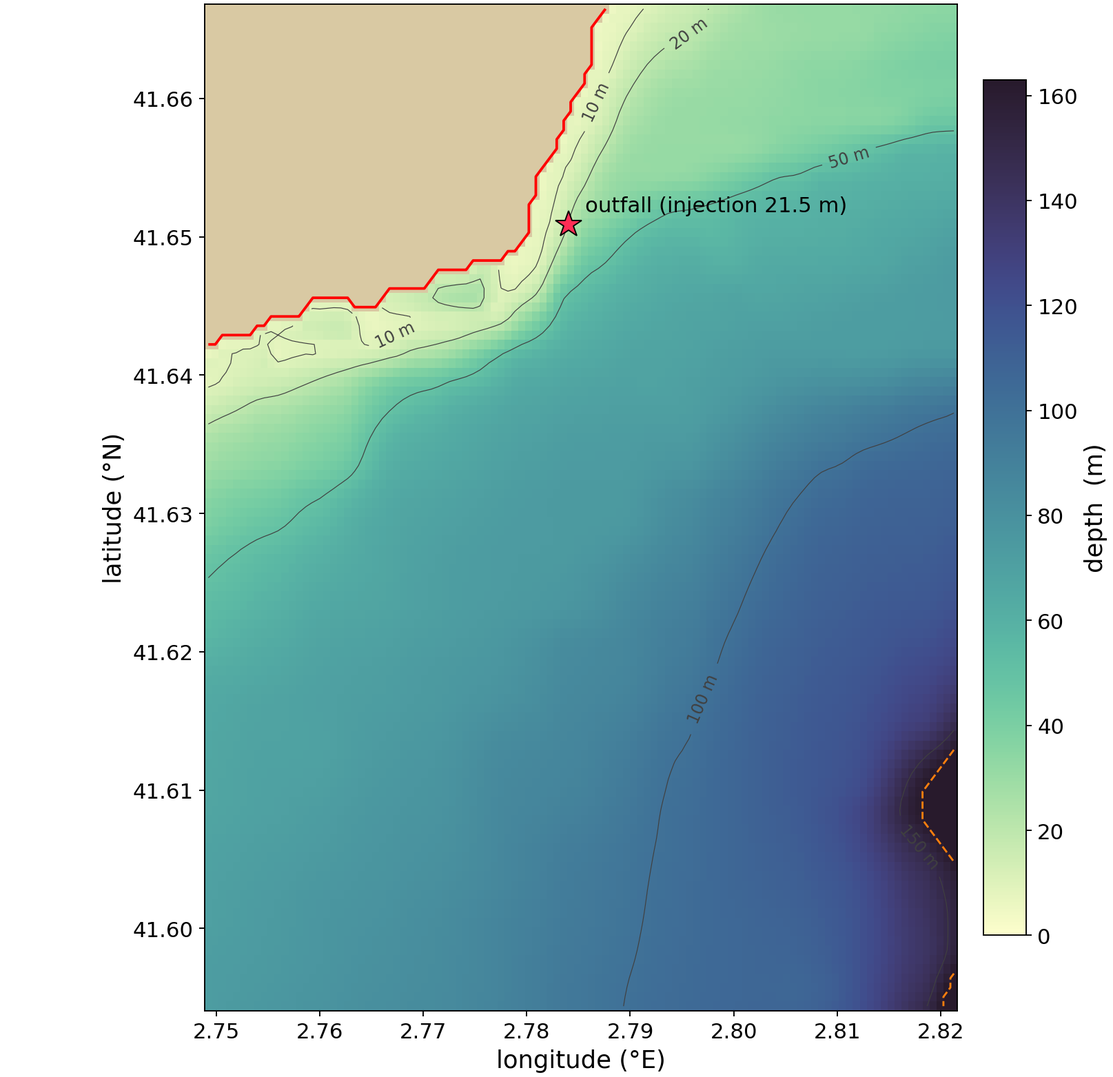
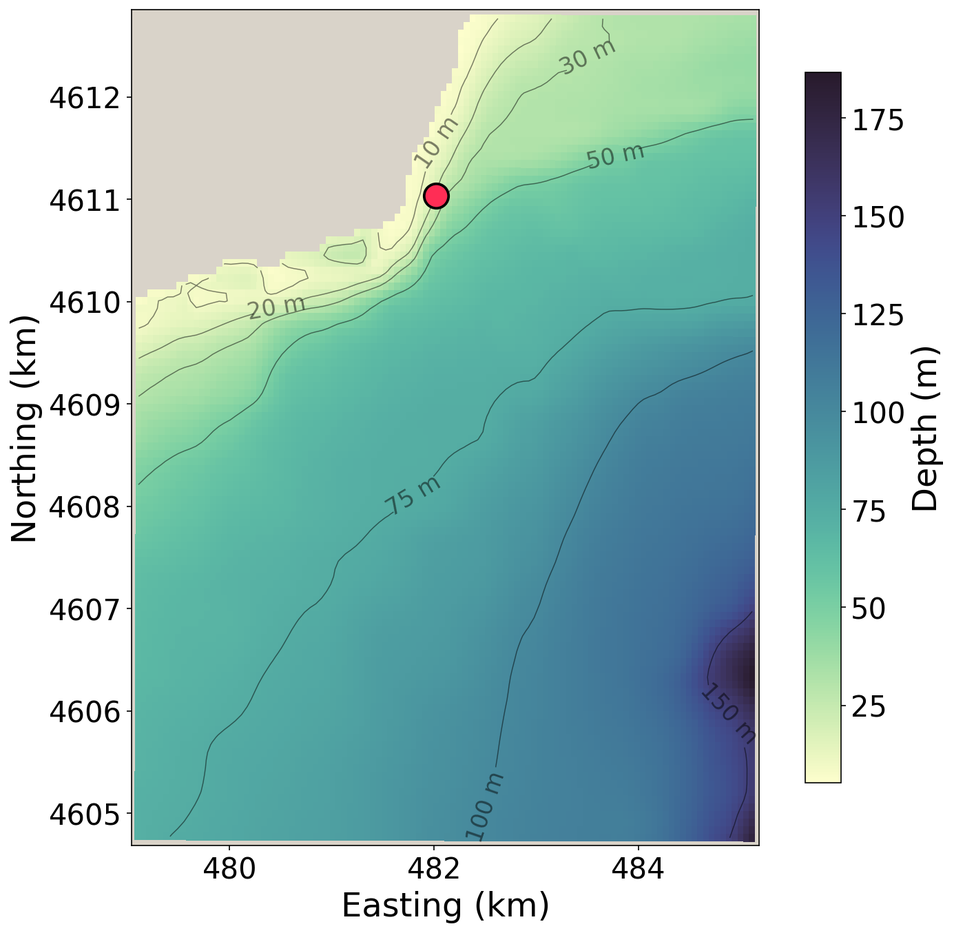
Stats fixes; bathymetry map in projected km axes

diff --git a/index.html b/index.html
@@ -46,7 +46,7 @@ In April it drains down the slope to 90-140 m and dilutes quickly; in July it st
 20 and 30 m close to the coast, the least dispersive case. The anomaly descends further in April than
 in July because in July a thermocline slows the descent of the brine plume and confines it to the
 upper layer.</p></div></div>
-<section><h2>PART 1 — Idealised slope model</h2><p class="desc lead">A straight shelf slope with a uniform wind, which isolates the effect of the wind on the plume from the complexity of the real bathymetry. The domain is 5.99 km across the shelf by 20.04 km along the coast (37 x 50 m cells, 75 vertical levels): the seabed falls from the coast to 80 m at 3 km offshore and is then flat out to the open boundary. Two wind regimes are compared, the most frequent one and a 95th-percentile event, and both are run with exactly the same open-boundary configuration and the same 15-day discharge, so the only difference between the two experiments is the wind. All slope videos share ONE colour scale, so what changes between the regimes is the plume, not the scale. The result is not what one might expect: the peak salinity excess falls only 16 % when the wind is five times stronger (1.54 to 1.29 psu), and in both regimes that peak sits in the discharge cell itself and is reached within the first hour, then holds steady for the whole fortnight. What the wind changes is the reach: the volume of water carrying a detectable excess is about six times smaller under the strong wind, and it extends 4.5 km along the coast instead of filling the full 20 km of the domain.</p><h3 class="sub">The background state — control runs (no discharge)</h3><p class="desc">The two control simulations WITHOUT the brine: temperature, salinity and the two current components on the vertical section at the outfall row, hourly over the same 3-day study window as the anomaly videos below (the full 15-day versions live in the archive). The domain is along-shore uniform, so this one section is representative of the whole shelf; the extreme control descends from its own 125-day spin-up under the same open boundary as the modal pair. Each variable keeps ONE colour scale across the two regimes, so what changes between the two columns is the wind’s imprint on the background, not the scale — the extreme background is fully mixed (14.0 °C top to bottom) and almost steady, while the modal background keeps a weak stratification and visibly stronger transient currents. Every anomaly video below is the difference between a twin of one of these runs (plus the discharge) and the run itself. The star marks where the diffuser sits in the brine runs.</p><div class="grid"><div class="card"><video controls preload="none" poster="posters/slope_control_T_xz_j200_modal.jpg"><source src="media/slope_control_T_xz_j200_modal.mp4" type="video/mp4"></video><h3>Temperature — modal wind (1 m s-1)</h3><p>cmocean thermal</p></div><div class="card"><video controls preload="none" poster="posters/slope_control_T_xz_j200_extreme.jpg"><source src="media/slope_control_T_xz_j200_extreme.mp4" type="video/mp4"></video><h3>Temperature — extreme wind (4.8 m s-1)</h3><p>cmocean thermal</p></div><div class="card"><video controls preload="none" poster="posters/slope_control_S_xz_j200_modal.jpg"><source src="media/slope_control_S_xz_j200_modal.mp4" type="video/mp4"></video><h3>Salinity — modal wind (1 m s-1)</h3><p>cmocean haline</p></div><div class="card"><video controls preload="none" poster="posters/slope_control_S_xz_j200_extreme.jpg"><source src="media/slope_control_S_xz_j200_extreme.mp4" type="video/mp4"></video><h3>Salinity — extreme wind (4.8 m s-1)</h3><p>cmocean haline</p></div><div class="card"><video controls preload="none" poster="posters/slope_control_U_xz_j200_modal.jpg"><source src="media/slope_control_U_xz_j200_modal.mp4" type="video/mp4"></video><h3>Cross-shore current — modal wind (1 m s-1)</h3><p>diverging scale, + = offshore</p></div><div class="card"><video controls preload="none" poster="posters/slope_control_U_xz_j200_extreme.jpg"><source src="media/slope_control_U_xz_j200_extreme.mp4" type="video/mp4"></video><h3>Cross-shore current — extreme wind (4.8 m s-1)</h3><p>diverging scale, + = offshore</p></div><div class="card"><video controls preload="none" poster="posters/slope_control_V_xz_j200_modal.jpg"><source src="media/slope_control_V_xz_j200_modal.mp4" type="video/mp4"></video><h3>Along-shore current — modal wind (1 m s-1)</h3><p>diverging scale, + = north</p></div><div class="card"><video controls preload="none" poster="posters/slope_control_V_xz_j200_extreme.jpg"><source src="media/slope_control_V_xz_j200_extreme.mp4" type="video/mp4"></video><h3>Along-shore current — extreme wind (4.8 m s-1)</h3><p>diverging scale, + = north</p></div></div><h3 class="sub">The plume in 3D — two views of the whole domain</h3><p class="desc">The salinity-excess surfaces over the seabed, across the entire 5.99 x 20.04 km domain: the shelf slope down to 80 m at 3 km from the coast, and the flat platform beyond it. Six nested surfaces from the measured noise floor (0.0092 psu) to 1.46 psu — everything drawn is real brine, and the descending plume can be followed all the way down the slope. The 2D sections below keep the report figures&#x27; finer 0.0003 psu minimum contour. The axes are labelled in km but are deliberately not to scale — the vertical is exaggerated so the plume is visible at all. Star = diffuser, red = shoreline.</p><div class="grid"><div class="card"><video controls preload="none" poster="posters/slope_plume3D_modal.jpg"><source src="media/slope_plume3D_modal.mp4" type="video/mp4"></video><h3>front view — modal wind (1 m s-1)</h3><p>the whole 6 x 20 km domain, shelf slope and outer platform</p></div><div class="card"><video controls preload="none" poster="posters/slope_plume3D_modal_rot90cw.jpg"><source src="media/slope_plume3D_modal_rot90cw.mp4" type="video/mp4"></video><h3>turned 90 degrees — modal wind (1 m s-1)</h3><p>the same scene from the other side, coast on the right</p></div><div class="card"><video controls preload="none" poster="posters/slope_plume3D_extreme.jpg"><source src="media/slope_plume3D_extreme.mp4" type="video/mp4"></video><h3>front view — extreme wind (4.8 m s-1)</h3><p>the whole 6 x 20 km domain, shelf slope and outer platform</p></div><div class="card"><video controls preload="none" poster="posters/slope_plume3D_extreme_rot90cw.jpg"><source src="media/slope_plume3D_extreme_rot90cw.mp4" type="video/mp4"></video><h3>turned 90 degrees — extreme wind (4.8 m s-1)</h3><p>the same scene from the other side, coast on the right</p></div></div><h3 class="sub">Sections and plan views (report style)</h3><p class="desc">The same slices used in the written report, animated: filled contour bands, ΔS below 0.0003 psu left white, grey seabed, and the colour scale shared with the report figures (0 to 1.54 psu).</p><div class="grid"><div class="card"><video controls preload="none" poster="posters/slope_report_xz_j200_modal.jpg"><source src="media/slope_report_xz_j200_modal.mp4" type="video/mp4"></video><h3>Vertical section at the diffuser — modal wind (1 m s-1)</h3><p>the row through the outfall</p></div><div class="card"><video controls preload="none" poster="posters/slope_report_xz_j100_modal.jpg"><source src="media/slope_report_xz_j100_modal.mp4" type="video/mp4"></video><h3>Vertical section 5 km along-shore — modal wind (1 m s-1)</h3><p>downstream of the diffuser</p></div><div class="card"><video controls preload="none" poster="posters/slope_report_xy_k25_modal.jpg"><source src="media/slope_report_xy_k25_modal.mp4" type="video/mp4"></video><h3>Plan view at 43 m — modal wind (1 m s-1)</h3><p>the depth the descending plume crosses</p></div><div class="card"><video controls preload="none" poster="posters/slope_report_xy_k16_modal.jpg"><source src="media/slope_report_xy_k16_modal.mp4" type="video/mp4"></video><h3>Plan view at 30 m — modal wind (1 m s-1)</h3><p>just below the injection level</p></div><div class="card"><video controls preload="none" poster="posters/slope_report_xz_j200_extreme.jpg"><source src="media/slope_report_xz_j200_extreme.mp4" type="video/mp4"></video><h3>Vertical section at the diffuser — extreme wind (4.8 m s-1)</h3><p>the row through the outfall</p></div><div class="card"><video controls preload="none" poster="posters/slope_report_xz_j100_extreme.jpg"><source src="media/slope_report_xz_j100_extreme.mp4" type="video/mp4"></video><h3>Vertical section 5 km along-shore — extreme wind (4.8 m s-1)</h3><p>downstream of the diffuser</p></div><div class="card"><video controls preload="none" poster="posters/slope_report_xy_k25_extreme.jpg"><source src="media/slope_report_xy_k25_extreme.mp4" type="video/mp4"></video><h3>Plan view at 43 m — extreme wind (4.8 m s-1)</h3><p>the depth the descending plume crosses</p></div><div class="card"><video controls preload="none" poster="posters/slope_report_xy_k16_extreme.jpg"><source src="media/slope_report_xy_k16_extreme.mp4" type="video/mp4"></video><h3>Plan view at 30 m — extreme wind (4.8 m s-1)</h3><p>just below the injection level</p></div></div></section><section><h2>PART 2 — Realistic nested model of the outfall</h2><p class="desc lead">The real bathymetry of the Tordera outfall area at 56 x 75 m resolution and 107 vertical levels, with boundary currents from the regional CATSEA model and hourly ERA5 wind. Four two-week windows of 2022 sample a mixed spring column and a stratified summer one. All four months share ONE colour scale, so a surface that shrinks between months is a real change in the plume.</p><h3 class="sub">The receiving waters — control runs (no discharge)</h3><p class="desc">The four simulated windows WITHOUT the outfall: temperature, salinity and current speed, hourly, as depth panels every 15 m. This is the context the brine falls into — in April the column is mixed top to bottom; in July a warm surface layer sits on a sharp thermocline, which is what later traps the plume near the surface. Every anomaly video below is the difference between a twin of one of these runs (plus the discharge) and the run itself.</p><div class="grid"><div class="card"><video controls preload="none" poster="posters/Apr01-15_TORDERA98C_control_T_every15m.jpg"><source src="media/Apr01-15_TORDERA98C_control_T_every15m.mp4" type="video/mp4"></video><h3>Temperature — 1-15 April 2022</h3><p>cmocean thermal, depth panels every 15 m</p></div><div class="card"><video controls preload="none" poster="posters/Apr16-30_TORDERA98D_control_T_every15m.jpg"><source src="media/Apr16-30_TORDERA98D_control_T_every15m.mp4" type="video/mp4"></video><h3>Temperature — 16-30 April 2022</h3><p>cmocean thermal, depth panels every 15 m</p></div><div class="card"><video controls preload="none" poster="posters/Jul01-15_TORDERA98E1_control_T_every15m.jpg"><source src="media/Jul01-15_TORDERA98E1_control_T_every15m.mp4" type="video/mp4"></video><h3>Temperature — 1-15 July 2022</h3><p>cmocean thermal, depth panels every 15 m</p></div><div class="card"><video controls preload="none" poster="posters/Jul16-30_TORDERA98E2_control_T_every15m.jpg"><source src="media/Jul16-30_TORDERA98E2_control_T_every15m.mp4" type="video/mp4"></video><h3>Temperature — 16-30 July 2022</h3><p>cmocean thermal, depth panels every 15 m</p></div><div class="card"><video controls preload="none" poster="posters/Apr01-15_TORDERA98C_control_S_every15m.jpg"><source src="media/Apr01-15_TORDERA98C_control_S_every15m.mp4" type="video/mp4"></video><h3>Salinity — 1-15 April 2022</h3><p>cmocean haline, depth panels every 15 m</p></div><div class="card"><video controls preload="none" poster="posters/Apr16-30_TORDERA98D_control_S_every15m.jpg"><source src="media/Apr16-30_TORDERA98D_control_S_every15m.mp4" type="video/mp4"></video><h3>Salinity — 16-30 April 2022</h3><p>cmocean haline, depth panels every 15 m</p></div><div class="card"><video controls preload="none" poster="posters/Jul01-15_TORDERA98E1_control_S_every15m.jpg"><source src="media/Jul01-15_TORDERA98E1_control_S_every15m.mp4" type="video/mp4"></video><h3>Salinity — 1-15 July 2022</h3><p>cmocean haline, depth panels every 15 m</p></div><div class="card"><video controls preload="none" poster="posters/Jul16-30_TORDERA98E2_control_S_every15m.jpg"><source src="media/Jul16-30_TORDERA98E2_control_S_every15m.mp4" type="video/mp4"></video><h3>Salinity — 16-30 July 2022</h3><p>cmocean haline, depth panels every 15 m</p></div><div class="card"><video controls preload="none" poster="posters/Apr01-15_TORDERA98C_control_speed_every15m.jpg"><source src="media/Apr01-15_TORDERA98C_control_speed_every15m.mp4" type="video/mp4"></video><h3>Current speed — 1-15 April 2022</h3><p>cmocean speed, depth panels every 15 m</p></div><div class="card"><video controls preload="none" poster="posters/Apr16-30_TORDERA98D_control_speed_every15m.jpg"><source src="media/Apr16-30_TORDERA98D_control_speed_every15m.mp4" type="video/mp4"></video><h3>Current speed — 16-30 April 2022</h3><p>cmocean speed, depth panels every 15 m</p></div><div class="card"><video controls preload="none" poster="posters/Jul01-15_TORDERA98E1_control_speed_every15m.jpg"><source src="media/Jul01-15_TORDERA98E1_control_speed_every15m.mp4" type="video/mp4"></video><h3>Current speed — 1-15 July 2022</h3><p>cmocean speed, depth panels every 15 m</p></div><div class="card"><video controls preload="none" poster="posters/Jul16-30_TORDERA98E2_control_speed_every15m.jpg"><source src="media/Jul16-30_TORDERA98E2_control_speed_every15m.mp4" type="video/mp4"></video><h3>Current speed — 16-30 July 2022</h3><p>cmocean speed, depth panels every 15 m</p></div></div><h3 class="sub">The plume in 3D</h3><p class="desc">Salinity-excess surfaces over the real seabed, hour by hour through the discharge week. Star = diffuser, red line = coastline.</p><div class="grid"><div class="card"><video controls preload="none" poster="posters/Apr08-15_TORDERA98CnoT_anomaly3D_dS.jpg"><source src="media/Apr08-15_TORDERA98CnoT_anomaly3D_dS.mp4" type="video/mp4"></video><h3>3D plume — 1-15 April 2022</h3><p>discharge 8-15 April</p></div><div class="card"><video controls preload="none" poster="posters/Apr23-30_TORDERA98DnoT_anomaly3D_dS.jpg"><source src="media/Apr23-30_TORDERA98DnoT_anomaly3D_dS.mp4" type="video/mp4"></video><h3>3D plume — 16-30 April 2022</h3><p>discharge 23-30 April</p></div><div class="card"><video controls preload="none" poster="posters/Jul08-15_TORDERA98E1noT_anomaly3D_dS.jpg"><source src="media/Jul08-15_TORDERA98E1noT_anomaly3D_dS.mp4" type="video/mp4"></video><h3>3D plume — 1-15 July 2022</h3><p>discharge 8-15 July</p></div><div class="card"><video controls preload="none" poster="posters/Jul23-30_TORDERA98E2noT_anomaly3D_dS.jpg"><source src="media/Jul23-30_TORDERA98E2noT_anomaly3D_dS.mp4" type="video/mp4"></video><h3>3D plume — 16-30 July 2022</h3><p>discharge 23-30 July</p></div><div class="card"><video controls preload="none" poster="posters/Apr08-15_TORDERA98CnoT_anomaly3D_dS_rot90ccw.jpg"><source src="media/Apr08-15_TORDERA98CnoT_anomaly3D_dS_rot90ccw.mp4" type="video/mp4"></video><h3>3D plume, rotated — 1-15 April 2022</h3><p>discharge 8-15 April</p></div><div class="card"><video controls preload="none" poster="posters/Apr23-30_TORDERA98DnoT_anomaly3D_dS_rot90ccw.jpg"><source src="media/Apr23-30_TORDERA98DnoT_anomaly3D_dS_rot90ccw.mp4" type="video/mp4"></video><h3>3D plume, rotated — 16-30 April 2022</h3><p>discharge 23-30 April</p></div><div class="card"><video controls preload="none" poster="posters/Jul08-15_TORDERA98E1noT_anomaly3D_dS_rot90ccw.jpg"><source src="media/Jul08-15_TORDERA98E1noT_anomaly3D_dS_rot90ccw.mp4" type="video/mp4"></video><h3>3D plume, rotated — 1-15 July 2022</h3><p>discharge 8-15 July</p></div><div class="card"><video controls preload="none" poster="posters/Jul23-30_TORDERA98E2noT_anomaly3D_dS_rot90ccw.jpg"><source src="media/Jul23-30_TORDERA98E2noT_anomaly3D_dS_rot90ccw.mp4" type="video/mp4"></video><h3>3D plume, rotated — 16-30 July 2022</h3><p>discharge 23-30 July</p></div></div><h3 class="sub">Plume and local currents</h3><p class="desc">Left: the plume in 3D from two cameras. Right: the model currents at six depths with the plume outline (cyan) on top — the direct link between the currents and how far the brine travels.</p><div class="grid"><div class="card"><video controls preload="none" poster="posters/Apr08-15_TORDERA98CnoT_anomaly3D_currents.jpg"><source src="media/Apr08-15_TORDERA98CnoT_anomaly3D_currents.mp4" type="video/mp4"></video><h3>Plume vs currents — 1-15 April 2022</h3><p>discharge 8-15 April</p></div><div class="card"><video controls preload="none" poster="posters/Apr23-30_TORDERA98DnoT_anomaly3D_currents.jpg"><source src="media/Apr23-30_TORDERA98DnoT_anomaly3D_currents.mp4" type="video/mp4"></video><h3>Plume vs currents — 16-30 April 2022</h3><p>discharge 23-30 April</p></div><div class="card"><video controls preload="none" poster="posters/Jul08-15_TORDERA98E1noT_anomaly3D_currents.jpg"><source src="media/Jul08-15_TORDERA98E1noT_anomaly3D_currents.mp4" type="video/mp4"></video><h3>Plume vs currents — 1-15 July 2022</h3><p>discharge 8-15 July</p></div><div class="card"><video controls preload="none" poster="posters/Jul23-30_TORDERA98E2noT_anomaly3D_currents.jpg"><source src="media/Jul23-30_TORDERA98E2noT_anomaly3D_currents.mp4" type="video/mp4"></video><h3>Plume vs currents — 16-30 July 2022</h3><p>discharge 23-30 July</p></div></div><h3 class="sub">Depth-by-depth maps</h3><p class="desc">Salinity excess by depth level. Values below 0.001 psu are drawn white (&quot;no real anomaly&quot;); the colour bar (0 to 3.42 psu) is the same in all four months.</p><div class="grid"><div class="card"><video controls preload="none" poster="posters/Apr08-15_TORDERA98CnoT_anomaly_dS_every15m_cap0.001psu.jpg"><source src="media/Apr08-15_TORDERA98CnoT_anomaly_dS_every15m_cap0.001psu.mp4" type="video/mp4"></video><h3>Depth maps — 1-15 April 2022</h3><p>discharge 8-15 April</p></div><div class="card"><video controls preload="none" poster="posters/Apr23-30_TORDERA98DnoT_anomaly_dS_every15m_cap0.001psu.jpg"><source src="media/Apr23-30_TORDERA98DnoT_anomaly_dS_every15m_cap0.001psu.mp4" type="video/mp4"></video><h3>Depth maps — 16-30 April 2022</h3><p>discharge 23-30 April</p></div><div class="card"><video controls preload="none" poster="posters/Jul08-15_TORDERA98E1noT_anomaly_dS_every15m_cap0.001psu.jpg"><source src="media/Jul08-15_TORDERA98E1noT_anomaly_dS_every15m_cap0.001psu.mp4" type="video/mp4"></video><h3>Depth maps — 1-15 July 2022</h3><p>discharge 8-15 July</p></div><div class="card"><video controls preload="none" poster="posters/Jul23-30_TORDERA98E2noT_anomaly_dS_every15m_cap0.001psu.jpg"><source src="media/Jul23-30_TORDERA98E2noT_anomaly_dS_every15m_cap0.001psu.mp4" type="video/mp4"></video><h3>Depth maps — 16-30 July 2022</h3><p>discharge 23-30 July</p></div></div></section><section><h2>Forcing: wind and currents</h2><p class="desc lead">What drives the dispersion in the realistic runs.</p><div class="grid"><div class="card"><video controls preload="none" poster="posters/Apr01-30_wind_quiver.jpg"><source src="media/Apr01-30_wind_quiver.mp4" type="video/mp4"></video><h3>ERA5 wind — April 2022</h3><p>arrows = direction, colour = speed</p></div><div class="card"><video controls preload="none" poster="posters/Jul01-31_wind_quiver.jpg"><source src="media/Jul01-31_wind_quiver.mp4" type="video/mp4"></video><h3>ERA5 wind — July 2022</h3><p>arrows = direction, colour = speed</p></div><div class="card"><a href="media/Apr08-15_TORDERA98CnoT_current_timeseries_outfall.png"><img loading="lazy" src="media/Apr08-15_TORDERA98CnoT_current_timeseries_outfall.png" alt="Current at the diffuser — 1-15 April 2022"></a><h3>Current at the diffuser — 1-15 April 2022</h3><p>discharge 8-15 April</p></div><div class="card"><a href="media/Apr23-30_TORDERA98DnoT_current_timeseries_outfall.png"><img loading="lazy" src="media/Apr23-30_TORDERA98DnoT_current_timeseries_outfall.png" alt="Current at the diffuser — 16-30 April 2022"></a><h3>Current at the diffuser — 16-30 April 2022</h3><p>discharge 23-30 April</p></div><div class="card"><a href="media/Jul08-15_TORDERA98E1noT_current_timeseries_outfall.png"><img loading="lazy" src="media/Jul08-15_TORDERA98E1noT_current_timeseries_outfall.png" alt="Current at the diffuser — 1-15 July 2022"></a><h3>Current at the diffuser — 1-15 July 2022</h3><p>discharge 8-15 July</p></div><div class="card"><a href="media/Jul23-30_TORDERA98E2noT_current_timeseries_outfall.png"><img loading="lazy" src="media/Jul23-30_TORDERA98E2noT_current_timeseries_outfall.png" alt="Current at the diffuser — 16-30 July 2022"></a><h3>Current at the diffuser — 16-30 July 2022</h3><p>discharge 23-30 July</p></div><div class="card"><a href="media/Apr01-30_wind_timeseries.png"><img loading="lazy" src="media/Apr01-30_wind_timeseries.png" alt="Wind time series — April 2022"></a><h3>Wind time series — April 2022</h3><p></p></div><div class="card"><a href="media/Jul01-31_wind_timeseries.png"><img loading="lazy" src="media/Jul01-31_wind_timeseries.png" alt="Wind time series — July 2022"></a><h3>Wind time series — July 2022</h3><p></p></div></div></section>
+<section><h2>PART 1 — Idealised slope model</h2><p class="desc lead">A straight shelf slope with a uniform wind, which isolates the effect of the wind on the plume from the complexity of the real bathymetry. The domain is 5.99 km across the shelf by 20.04 km along the coast (37 x 50 m cells, 75 vertical levels): the seabed falls from the coast to 80 m at 3 km offshore and is then flat out to the open boundary. Two wind regimes are compared, the most frequent one and a 95th-percentile event, and both are run with exactly the same open-boundary configuration and the same 15-day discharge, so the only difference between the two experiments is the wind. All slope videos share ONE colour scale, so what changes between the regimes is the plume, not the scale. The result is not what one might expect: the peak salinity excess falls only 16 % when the wind is five times stronger (1.52 to 1.29 psu), and in both regimes that peak sits in the discharge cell itself and is reached within the first hour, then holds steady for the whole fortnight. What the wind changes is the reach: the volume of water carrying a detectable excess is at least three times smaller under the strong wind, and it extends 3.6 km along the coast instead of filling the full 20 km of the domain.</p><h3 class="sub">The background state — control runs (no discharge)</h3><p class="desc">The two control simulations WITHOUT the brine: temperature, salinity and the two current components on the vertical section at the outfall row, hourly over the same 3-day study window as the anomaly videos below (the full 15-day versions live in the archive). The domain is along-shore uniform, so this one section is representative of the whole shelf; the extreme control descends from its own 125-day spin-up under the same open boundary as the modal pair. Each variable keeps ONE colour scale across the two regimes, so what changes between the two columns is the wind’s imprint on the background, not the scale — the extreme background is fully mixed (14.0 °C top to bottom) and almost steady, while the modal background keeps a weak stratification and visibly stronger transient currents. Every anomaly video below is the difference between a twin of one of these runs (plus the discharge) and the run itself. The star marks where the diffuser sits in the brine runs.</p><div class="grid"><div class="card"><video controls preload="none" poster="posters/slope_control_T_xz_j200_modal.jpg"><source src="media/slope_control_T_xz_j200_modal.mp4" type="video/mp4"></video><h3>Temperature — modal wind (1 m s-1)</h3><p>cmocean thermal</p></div><div class="card"><video controls preload="none" poster="posters/slope_control_T_xz_j200_extreme.jpg"><source src="media/slope_control_T_xz_j200_extreme.mp4" type="video/mp4"></video><h3>Temperature — extreme wind (4.8 m s-1)</h3><p>cmocean thermal</p></div><div class="card"><video controls preload="none" poster="posters/slope_control_S_xz_j200_modal.jpg"><source src="media/slope_control_S_xz_j200_modal.mp4" type="video/mp4"></video><h3>Salinity — modal wind (1 m s-1)</h3><p>cmocean haline</p></div><div class="card"><video controls preload="none" poster="posters/slope_control_S_xz_j200_extreme.jpg"><source src="media/slope_control_S_xz_j200_extreme.mp4" type="video/mp4"></video><h3>Salinity — extreme wind (4.8 m s-1)</h3><p>cmocean haline</p></div><div class="card"><video controls preload="none" poster="posters/slope_control_U_xz_j200_modal.jpg"><source src="media/slope_control_U_xz_j200_modal.mp4" type="video/mp4"></video><h3>Cross-shore current — modal wind (1 m s-1)</h3><p>diverging scale, + = offshore</p></div><div class="card"><video controls preload="none" poster="posters/slope_control_U_xz_j200_extreme.jpg"><source src="media/slope_control_U_xz_j200_extreme.mp4" type="video/mp4"></video><h3>Cross-shore current — extreme wind (4.8 m s-1)</h3><p>diverging scale, + = offshore</p></div><div class="card"><video controls preload="none" poster="posters/slope_control_V_xz_j200_modal.jpg"><source src="media/slope_control_V_xz_j200_modal.mp4" type="video/mp4"></video><h3>Along-shore current — modal wind (1 m s-1)</h3><p>diverging scale, + = north</p></div><div class="card"><video controls preload="none" poster="posters/slope_control_V_xz_j200_extreme.jpg"><source src="media/slope_control_V_xz_j200_extreme.mp4" type="video/mp4"></video><h3>Along-shore current — extreme wind (4.8 m s-1)</h3><p>diverging scale, + = north</p></div></div><h3 class="sub">The plume in 3D — two views of the whole domain</h3><p class="desc">The salinity-excess surfaces over the seabed, across the entire 5.99 x 20.04 km domain: the shelf slope down to 80 m at 3 km from the coast, and the flat platform beyond it. Six nested surfaces from the measured noise floor (0.0092 psu) to 1.46 psu — everything drawn is real brine, and the descending plume can be followed all the way down the slope. The 2D sections below keep the report figures&#x27; finer 0.0003 psu minimum contour. The axes are labelled in km but are deliberately not to scale — the vertical is exaggerated so the plume is visible at all. Star = diffuser, red = shoreline.</p><div class="grid"><div class="card"><video controls preload="none" poster="posters/slope_plume3D_modal.jpg"><source src="media/slope_plume3D_modal.mp4" type="video/mp4"></video><h3>front view — modal wind (1 m s-1)</h3><p>the whole 6 x 20 km domain, shelf slope and outer platform</p></div><div class="card"><video controls preload="none" poster="posters/slope_plume3D_modal_rot90cw.jpg"><source src="media/slope_plume3D_modal_rot90cw.mp4" type="video/mp4"></video><h3>turned 90 degrees — modal wind (1 m s-1)</h3><p>the same scene from the other side, coast on the right</p></div><div class="card"><video controls preload="none" poster="posters/slope_plume3D_extreme.jpg"><source src="media/slope_plume3D_extreme.mp4" type="video/mp4"></video><h3>front view — extreme wind (4.8 m s-1)</h3><p>the whole 6 x 20 km domain, shelf slope and outer platform</p></div><div class="card"><video controls preload="none" poster="posters/slope_plume3D_extreme_rot90cw.jpg"><source src="media/slope_plume3D_extreme_rot90cw.mp4" type="video/mp4"></video><h3>turned 90 degrees — extreme wind (4.8 m s-1)</h3><p>the same scene from the other side, coast on the right</p></div></div><h3 class="sub">Sections and plan views (report style)</h3><p class="desc">The same slices used in the written report, animated: filled contour bands, ΔS below 0.0003 psu left white, grey seabed, and the colour scale shared with the report figures (0 to 1.54 psu).</p><div class="grid"><div class="card"><video controls preload="none" poster="posters/slope_report_xz_j200_modal.jpg"><source src="media/slope_report_xz_j200_modal.mp4" type="video/mp4"></video><h3>Vertical section at the diffuser — modal wind (1 m s-1)</h3><p>the row through the outfall</p></div><div class="card"><video controls preload="none" poster="posters/slope_report_xz_j100_modal.jpg"><source src="media/slope_report_xz_j100_modal.mp4" type="video/mp4"></video><h3>Vertical section 5 km along-shore — modal wind (1 m s-1)</h3><p>downstream of the diffuser</p></div><div class="card"><video controls preload="none" poster="posters/slope_report_xy_k25_modal.jpg"><source src="media/slope_report_xy_k25_modal.mp4" type="video/mp4"></video><h3>Plan view at 43 m — modal wind (1 m s-1)</h3><p>the depth the descending plume crosses</p></div><div class="card"><video controls preload="none" poster="posters/slope_report_xy_k16_modal.jpg"><source src="media/slope_report_xy_k16_modal.mp4" type="video/mp4"></video><h3>Plan view at 30 m — modal wind (1 m s-1)</h3><p>just below the injection level</p></div><div class="card"><video controls preload="none" poster="posters/slope_report_xz_j200_extreme.jpg"><source src="media/slope_report_xz_j200_extreme.mp4" type="video/mp4"></video><h3>Vertical section at the diffuser — extreme wind (4.8 m s-1)</h3><p>the row through the outfall</p></div><div class="card"><video controls preload="none" poster="posters/slope_report_xz_j100_extreme.jpg"><source src="media/slope_report_xz_j100_extreme.mp4" type="video/mp4"></video><h3>Vertical section 5 km along-shore — extreme wind (4.8 m s-1)</h3><p>downstream of the diffuser</p></div><div class="card"><video controls preload="none" poster="posters/slope_report_xy_k25_extreme.jpg"><source src="media/slope_report_xy_k25_extreme.mp4" type="video/mp4"></video><h3>Plan view at 43 m — extreme wind (4.8 m s-1)</h3><p>the depth the descending plume crosses</p></div><div class="card"><video controls preload="none" poster="posters/slope_report_xy_k16_extreme.jpg"><source src="media/slope_report_xy_k16_extreme.mp4" type="video/mp4"></video><h3>Plan view at 30 m — extreme wind (4.8 m s-1)</h3><p>just below the injection level</p></div></div></section><section><h2>PART 2 — Realistic nested model of the outfall</h2><p class="desc lead">The real bathymetry of the Tordera outfall area at 56 x 75 m resolution and 107 vertical levels, with boundary currents from the regional CATSEA model and hourly ERA5 wind. Four two-week windows of 2022 sample a mixed spring column and a stratified summer one. All four months share ONE colour scale, so a surface that shrinks between months is a real change in the plume.</p><h3 class="sub">The receiving waters — control runs (no discharge)</h3><p class="desc">The four simulated windows WITHOUT the outfall: temperature, salinity and current speed, hourly, as depth panels every 15 m. This is the context the brine falls into — in April the column is mixed top to bottom; in July a warm surface layer sits on a sharp thermocline, which is what later traps the plume near the surface. Every anomaly video below is the difference between a twin of one of these runs (plus the discharge) and the run itself.</p><div class="grid"><div class="card"><video controls preload="none" poster="posters/Apr01-15_TORDERA98C_control_T_every15m.jpg"><source src="media/Apr01-15_TORDERA98C_control_T_every15m.mp4" type="video/mp4"></video><h3>Temperature — 1-15 April 2022</h3><p>cmocean thermal, depth panels every 15 m</p></div><div class="card"><video controls preload="none" poster="posters/Apr16-30_TORDERA98D_control_T_every15m.jpg"><source src="media/Apr16-30_TORDERA98D_control_T_every15m.mp4" type="video/mp4"></video><h3>Temperature — 16-30 April 2022</h3><p>cmocean thermal, depth panels every 15 m</p></div><div class="card"><video controls preload="none" poster="posters/Jul01-15_TORDERA98E1_control_T_every15m.jpg"><source src="media/Jul01-15_TORDERA98E1_control_T_every15m.mp4" type="video/mp4"></video><h3>Temperature — 1-15 July 2022</h3><p>cmocean thermal, depth panels every 15 m</p></div><div class="card"><video controls preload="none" poster="posters/Jul16-30_TORDERA98E2_control_T_every15m.jpg"><source src="media/Jul16-30_TORDERA98E2_control_T_every15m.mp4" type="video/mp4"></video><h3>Temperature — 16-30 July 2022</h3><p>cmocean thermal, depth panels every 15 m</p></div><div class="card"><video controls preload="none" poster="posters/Apr01-15_TORDERA98C_control_S_every15m.jpg"><source src="media/Apr01-15_TORDERA98C_control_S_every15m.mp4" type="video/mp4"></video><h3>Salinity — 1-15 April 2022</h3><p>cmocean haline, depth panels every 15 m</p></div><div class="card"><video controls preload="none" poster="posters/Apr16-30_TORDERA98D_control_S_every15m.jpg"><source src="media/Apr16-30_TORDERA98D_control_S_every15m.mp4" type="video/mp4"></video><h3>Salinity — 16-30 April 2022</h3><p>cmocean haline, depth panels every 15 m</p></div><div class="card"><video controls preload="none" poster="posters/Jul01-15_TORDERA98E1_control_S_every15m.jpg"><source src="media/Jul01-15_TORDERA98E1_control_S_every15m.mp4" type="video/mp4"></video><h3>Salinity — 1-15 July 2022</h3><p>cmocean haline, depth panels every 15 m</p></div><div class="card"><video controls preload="none" poster="posters/Jul16-30_TORDERA98E2_control_S_every15m.jpg"><source src="media/Jul16-30_TORDERA98E2_control_S_every15m.mp4" type="video/mp4"></video><h3>Salinity — 16-30 July 2022</h3><p>cmocean haline, depth panels every 15 m</p></div><div class="card"><video controls preload="none" poster="posters/Apr01-15_TORDERA98C_control_speed_every15m.jpg"><source src="media/Apr01-15_TORDERA98C_control_speed_every15m.mp4" type="video/mp4"></video><h3>Current speed — 1-15 April 2022</h3><p>cmocean speed, depth panels every 15 m</p></div><div class="card"><video controls preload="none" poster="posters/Apr16-30_TORDERA98D_control_speed_every15m.jpg"><source src="media/Apr16-30_TORDERA98D_control_speed_every15m.mp4" type="video/mp4"></video><h3>Current speed — 16-30 April 2022</h3><p>cmocean speed, depth panels every 15 m</p></div><div class="card"><video controls preload="none" poster="posters/Jul01-15_TORDERA98E1_control_speed_every15m.jpg"><source src="media/Jul01-15_TORDERA98E1_control_speed_every15m.mp4" type="video/mp4"></video><h3>Current speed — 1-15 July 2022</h3><p>cmocean speed, depth panels every 15 m</p></div><div class="card"><video controls preload="none" poster="posters/Jul16-30_TORDERA98E2_control_speed_every15m.jpg"><source src="media/Jul16-30_TORDERA98E2_control_speed_every15m.mp4" type="video/mp4"></video><h3>Current speed — 16-30 July 2022</h3><p>cmocean speed, depth panels every 15 m</p></div></div><h3 class="sub">The plume in 3D</h3><p class="desc">Salinity-excess surfaces over the real seabed, hour by hour through the discharge week. Star = diffuser, red line = coastline.</p><div class="grid"><div class="card"><video controls preload="none" poster="posters/Apr08-15_TORDERA98CnoT_anomaly3D_dS.jpg"><source src="media/Apr08-15_TORDERA98CnoT_anomaly3D_dS.mp4" type="video/mp4"></video><h3>3D plume — 1-15 April 2022</h3><p>discharge 8-15 April</p></div><div class="card"><video controls preload="none" poster="posters/Apr23-30_TORDERA98DnoT_anomaly3D_dS.jpg"><source src="media/Apr23-30_TORDERA98DnoT_anomaly3D_dS.mp4" type="video/mp4"></video><h3>3D plume — 16-30 April 2022</h3><p>discharge 23-30 April</p></div><div class="card"><video controls preload="none" poster="posters/Jul08-15_TORDERA98E1noT_anomaly3D_dS.jpg"><source src="media/Jul08-15_TORDERA98E1noT_anomaly3D_dS.mp4" type="video/mp4"></video><h3>3D plume — 1-15 July 2022</h3><p>discharge 8-15 July</p></div><div class="card"><video controls preload="none" poster="posters/Jul23-30_TORDERA98E2noT_anomaly3D_dS.jpg"><source src="media/Jul23-30_TORDERA98E2noT_anomaly3D_dS.mp4" type="video/mp4"></video><h3>3D plume — 16-30 July 2022</h3><p>discharge 23-30 July</p></div><div class="card"><video controls preload="none" poster="posters/Apr08-15_TORDERA98CnoT_anomaly3D_dS_rot90ccw.jpg"><source src="media/Apr08-15_TORDERA98CnoT_anomaly3D_dS_rot90ccw.mp4" type="video/mp4"></video><h3>3D plume, rotated — 1-15 April 2022</h3><p>discharge 8-15 April</p></div><div class="card"><video controls preload="none" poster="posters/Apr23-30_TORDERA98DnoT_anomaly3D_dS_rot90ccw.jpg"><source src="media/Apr23-30_TORDERA98DnoT_anomaly3D_dS_rot90ccw.mp4" type="video/mp4"></video><h3>3D plume, rotated — 16-30 April 2022</h3><p>discharge 23-30 April</p></div><div class="card"><video controls preload="none" poster="posters/Jul08-15_TORDERA98E1noT_anomaly3D_dS_rot90ccw.jpg"><source src="media/Jul08-15_TORDERA98E1noT_anomaly3D_dS_rot90ccw.mp4" type="video/mp4"></video><h3>3D plume, rotated — 1-15 July 2022</h3><p>discharge 8-15 July</p></div><div class="card"><video controls preload="none" poster="posters/Jul23-30_TORDERA98E2noT_anomaly3D_dS_rot90ccw.jpg"><source src="media/Jul23-30_TORDERA98E2noT_anomaly3D_dS_rot90ccw.mp4" type="video/mp4"></video><h3>3D plume, rotated — 16-30 July 2022</h3><p>discharge 23-30 July</p></div></div><h3 class="sub">Plume and local currents</h3><p class="desc">Left: the plume in 3D from two cameras. Right: the model currents at six depths with the plume outline (cyan) on top — the direct link between the currents and how far the brine travels.</p><div class="grid"><div class="card"><video controls preload="none" poster="posters/Apr08-15_TORDERA98CnoT_anomaly3D_currents.jpg"><source src="media/Apr08-15_TORDERA98CnoT_anomaly3D_currents.mp4" type="video/mp4"></video><h3>Plume vs currents — 1-15 April 2022</h3><p>discharge 8-15 April</p></div><div class="card"><video controls preload="none" poster="posters/Apr23-30_TORDERA98DnoT_anomaly3D_currents.jpg"><source src="media/Apr23-30_TORDERA98DnoT_anomaly3D_currents.mp4" type="video/mp4"></video><h3>Plume vs currents — 16-30 April 2022</h3><p>discharge 23-30 April</p></div><div class="card"><video controls preload="none" poster="posters/Jul08-15_TORDERA98E1noT_anomaly3D_currents.jpg"><source src="media/Jul08-15_TORDERA98E1noT_anomaly3D_currents.mp4" type="video/mp4"></video><h3>Plume vs currents — 1-15 July 2022</h3><p>discharge 8-15 July</p></div><div class="card"><video controls preload="none" poster="posters/Jul23-30_TORDERA98E2noT_anomaly3D_currents.jpg"><source src="media/Jul23-30_TORDERA98E2noT_anomaly3D_currents.mp4" type="video/mp4"></video><h3>Plume vs currents — 16-30 July 2022</h3><p>discharge 23-30 July</p></div></div><h3 class="sub">Depth-by-depth maps</h3><p class="desc">Salinity excess by depth level. Values below 0.001 psu are drawn white (&quot;no real anomaly&quot;); the colour bar (0 to 3.42 psu) is the same in all four months.</p><div class="grid"><div class="card"><video controls preload="none" poster="posters/Apr08-15_TORDERA98CnoT_anomaly_dS_every15m_cap0.001psu.jpg"><source src="media/Apr08-15_TORDERA98CnoT_anomaly_dS_every15m_cap0.001psu.mp4" type="video/mp4"></video><h3>Depth maps — 1-15 April 2022</h3><p>discharge 8-15 April</p></div><div class="card"><video controls preload="none" poster="posters/Apr23-30_TORDERA98DnoT_anomaly_dS_every15m_cap0.001psu.jpg"><source src="media/Apr23-30_TORDERA98DnoT_anomaly_dS_every15m_cap0.001psu.mp4" type="video/mp4"></video><h3>Depth maps — 16-30 April 2022</h3><p>discharge 23-30 April</p></div><div class="card"><video controls preload="none" poster="posters/Jul08-15_TORDERA98E1noT_anomaly_dS_every15m_cap0.001psu.jpg"><source src="media/Jul08-15_TORDERA98E1noT_anomaly_dS_every15m_cap0.001psu.mp4" type="video/mp4"></video><h3>Depth maps — 1-15 July 2022</h3><p>discharge 8-15 July</p></div><div class="card"><video controls preload="none" poster="posters/Jul23-30_TORDERA98E2noT_anomaly_dS_every15m_cap0.001psu.jpg"><source src="media/Jul23-30_TORDERA98E2noT_anomaly_dS_every15m_cap0.001psu.mp4" type="video/mp4"></video><h3>Depth maps — 16-30 July 2022</h3><p>discharge 23-30 July</p></div></div></section><section><h2>Forcing: wind and currents</h2><p class="desc lead">What drives the dispersion in the realistic runs.</p><div class="grid"><div class="card"><video controls preload="none" poster="posters/Apr01-30_wind_quiver.jpg"><source src="media/Apr01-30_wind_quiver.mp4" type="video/mp4"></video><h3>ERA5 wind — April 2022</h3><p>arrows = direction, colour = speed</p></div><div class="card"><video controls preload="none" poster="posters/Jul01-31_wind_quiver.jpg"><source src="media/Jul01-31_wind_quiver.mp4" type="video/mp4"></video><h3>ERA5 wind — July 2022</h3><p>arrows = direction, colour = speed</p></div><div class="card"><a href="media/Apr08-15_TORDERA98CnoT_current_timeseries_outfall.png"><img loading="lazy" src="media/Apr08-15_TORDERA98CnoT_current_timeseries_outfall.png" alt="Current at the diffuser — 1-15 April 2022"></a><h3>Current at the diffuser — 1-15 April 2022</h3><p>discharge 8-15 April</p></div><div class="card"><a href="media/Apr23-30_TORDERA98DnoT_current_timeseries_outfall.png"><img loading="lazy" src="media/Apr23-30_TORDERA98DnoT_current_timeseries_outfall.png" alt="Current at the diffuser — 16-30 April 2022"></a><h3>Current at the diffuser — 16-30 April 2022</h3><p>discharge 23-30 April</p></div><div class="card"><a href="media/Jul08-15_TORDERA98E1noT_current_timeseries_outfall.png"><img loading="lazy" src="media/Jul08-15_TORDERA98E1noT_current_timeseries_outfall.png" alt="Current at the diffuser — 1-15 July 2022"></a><h3>Current at the diffuser — 1-15 July 2022</h3><p>discharge 8-15 July</p></div><div class="card"><a href="media/Jul23-30_TORDERA98E2noT_current_timeseries_outfall.png"><img loading="lazy" src="media/Jul23-30_TORDERA98E2noT_current_timeseries_outfall.png" alt="Current at the diffuser — 16-30 July 2022"></a><h3>Current at the diffuser — 16-30 July 2022</h3><p>discharge 23-30 July</p></div><div class="card"><a href="media/Apr01-30_wind_timeseries.png"><img loading="lazy" src="media/Apr01-30_wind_timeseries.png" alt="Wind time series — April 2022"></a><h3>Wind time series — April 2022</h3><p></p></div><div class="card"><a href="media/Jul01-31_wind_timeseries.png"><img loading="lazy" src="media/Jul01-31_wind_timeseries.png" alt="Wind time series — July 2022"></a><h3>Wind time series — July 2022</h3><p></p></div></div></section>
 </main>
 <footer>Twin-experiment method: each pair of runs is identical except for the discharge, so the
 difference between them is the plume alone. Colour scales are pinned per model family, so videos can
